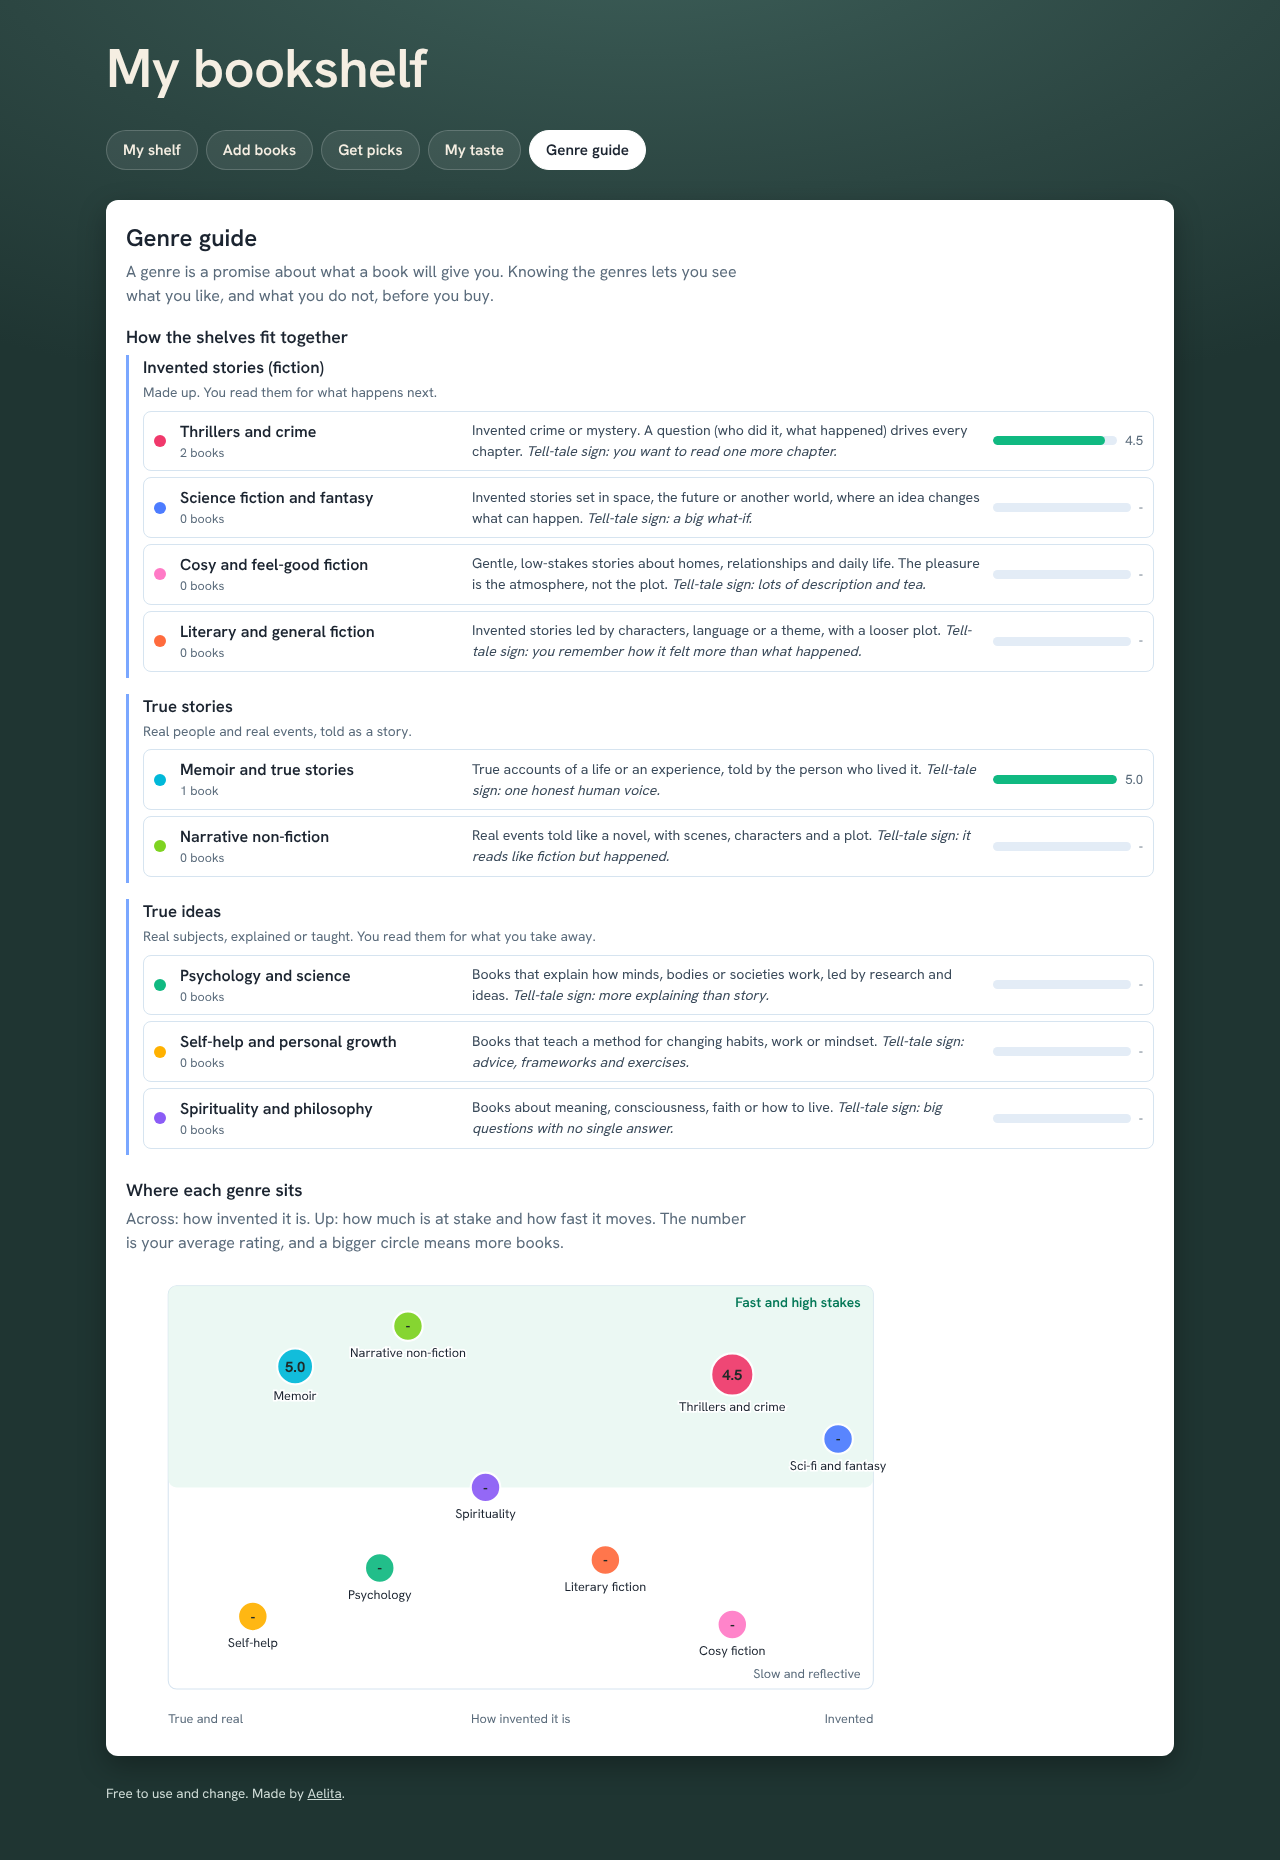
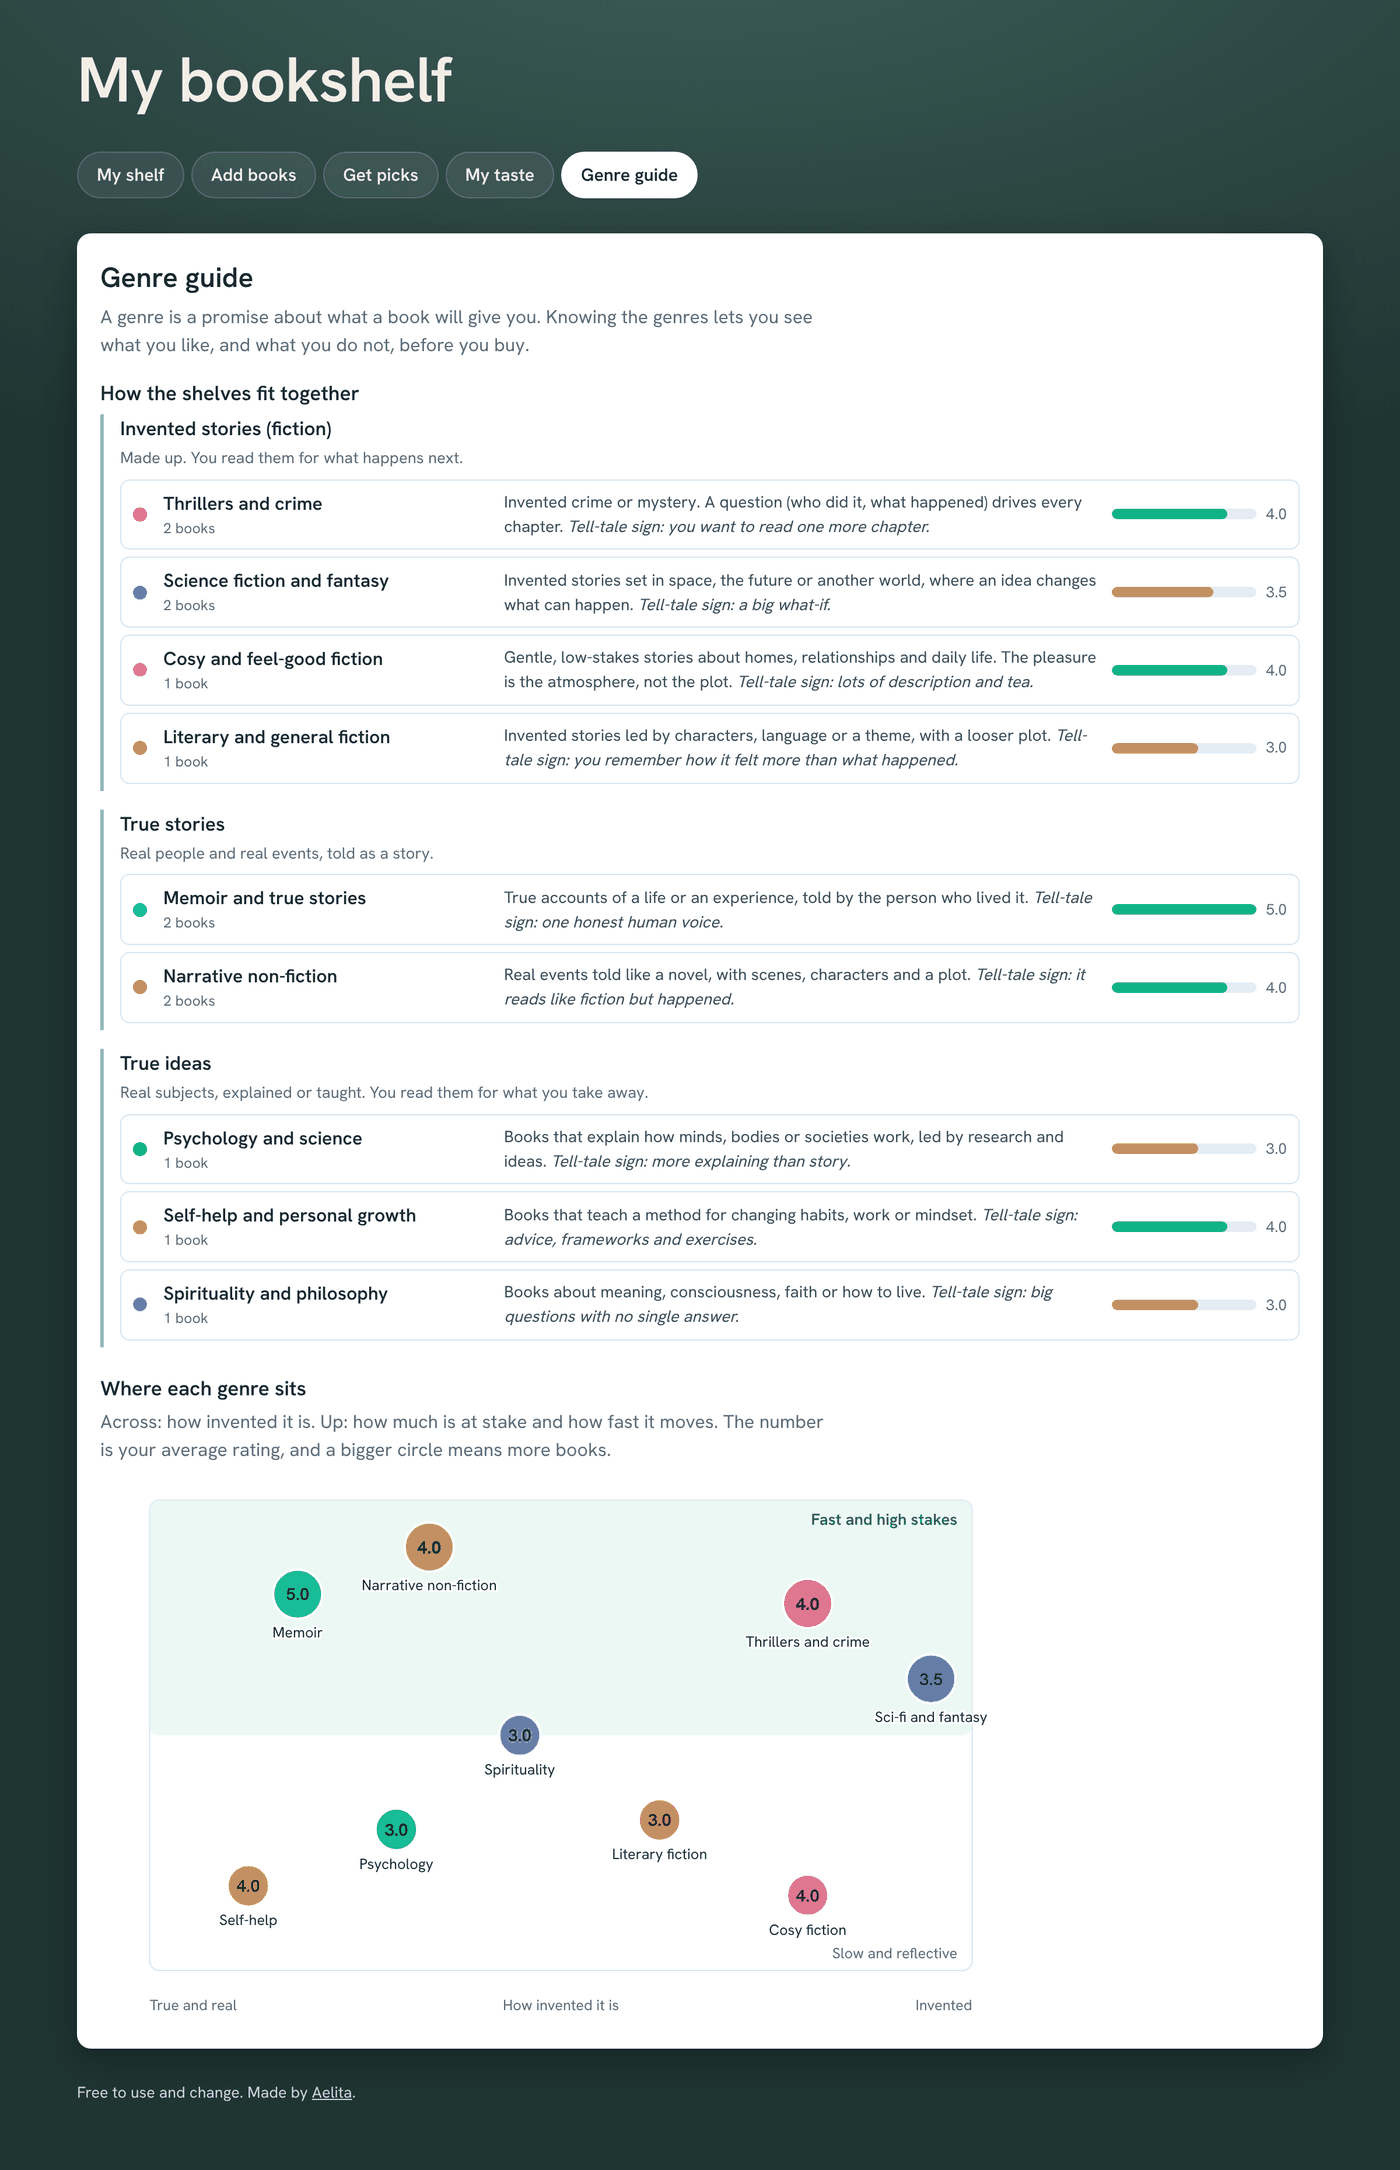
Rewrite README with step-by-step guide and add screenshots
Claude-Session: https://claude.ai/code/session_01LPQxr687qdTK5SvNS3U6bD

diff --git a/README.md b/README.md
@@ -2,61 +2,128 @@
 
 A free bookshelf that learns what you like to read, then writes the prompt for your own chatbot to recommend what to read next.
 
-No sign-up, no server, no cost. Your books stay in your browser. The recommendations come from the chatbot you already use (Claude, ChatGPT or Gemini, free plans work).
+**[Open the live bookshelf](https://lifeofaelita.github.io/bookshelf/)**. There is nothing to install, no account to make and nothing to pay for.
 
 ![Your shelf](docs/shelf.png)
 
-## What it does
+## What it does, and what it does not
 
-- **My shelf**: your books on a wooden shelf, sorted by genre
-- **Add books**: type them in, or import your Goodreads export
-- **Get picks**: builds a ready-to-paste prompt from your ratings, for any chatbot
-- **My taste**: shows what earns a five from you and what makes you stop
-- **Genre guide**: explains how genres fit together and where you sit
+Most book apps ask for a star rating and stop there. This one asks two questions about every book: how much the ideas mattered to you, and how easy it was to keep reading. That second score is what explains why you gave up on a book you were sure you would love.
 
-![Your taste](docs/taste.png)
+- It shows your books on a wooden shelf, sorted by genre.
+- It works out what earns a five from you and what makes you stop.
+- It writes a ready-made prompt from your shelf. You paste that prompt into Claude, ChatGPT or Gemini and the chatbot suggests what to read next.
+- It does not run any AI itself, send emails or collect your data. That is why it costs nothing.
 
-## Try it
+## Start in five minutes
 
-Open the live page: **https://lifeofaelita.github.io/bookshelf/**
+1. **Open the page.** Go to the live link above. You will see 13 sample books so you can look around first.
+2. **Add your own books.** Open the **Add books** tab and pick whichever option suits you (see below). When your own books are in, press **Clear the sample books** on the shelf.
+3. **Rate a few.** Click a book to open it, then set your rating and the two scores. Ten rated books is enough for good picks. Three is the minimum.
+4. **Get your prompt.** Open **Get picks**, choose how many picks you want and press **Build my prompt**, then **Copy the prompt**.
+5. **Paste it into a chatbot.** Use the Claude, ChatGPT or Gemini links under the prompt. Free plans work.
 
-Or download this repo and open `index.html` in any browser. Nothing to install.
+## Three ways to add books
 
-## Make it yours in five steps
+![The Add books tab](docs/add-books.png)
 
-1. **Add your books.** On Add books, upload your Goodreads file (Goodreads: My Books, Import and export, Export library) or add books one at a time.
-2. **Open each book you care about** and set your rating, how much the ideas mattered and how easy it was to keep reading. Ten rated books is enough to start.
-3. **Open Get picks**, choose how many picks you want, and press the button.
-4. **Press Copy** and paste into Claude, ChatGPT or Gemini.
-5. **Tell the chatbot what you thought** and ask for another round. Add the new books back into the page when you finish them.
+| Option | Best for | How |
+| --- | --- | --- |
+| Import from Goodreads | Anyone with a long reading history | On Goodreads open **My Books**, then **Import and export**, then **Export Library**. Download the file, then choose it under **Import from Goodreads** on the Add books tab. Books you already have are skipped. |
+| Add one book | A short list, or books you read recently | Fill in the form on the Add books tab. Only the title is required. |
+| Import from another app | StoryGraph users | Export your library as a CSV file and import it the same way. The common column names are recognised, but not every export has been tested. |
 
-## Weekly picks
+Imported books land on the right shelf when the genre is clear, and on **Not sorted yet** when it is not. Open a book to move it. The file [prompts/04-sort-my-books.md](prompts/04-sort-my-books.md) shows how to ask a chatbot to sort a long list for you.
 
-The page does not send emails, because there is no server. Two free options:
+## How the two scores work
 
-- Paste the prompt into a chat and ask for new picks every Monday. If your chatbot plan offers scheduled tasks, you can set that up there, but features differ by plan.
-- Put a repeating reminder in your calendar: "Monday: get book picks". It takes two minutes.
+Open any book and you will see three controls.
 
-## Your data
+![Open a book to rate it](docs/book-drawer.png)
 
-Everything is saved in your browser on your device. Clearing browser data erases it, so use **Back up my shelf** now and then. You can restore the file on any device.
+| Control | What it measures | Example |
+| --- | --- | --- |
+| Rating | How much you enjoyed it overall, 1 to 5 | 3 stars |
+| Ideas | How much the subject and ideas mattered to you, 1 to 5 | 5 |
+| Reading | How easy it was to keep reading, judged by pace, structure and voice, 1 to 5 | 2 |
 
-## Prompts
+That example is a book you found brilliant and a slog. It tells the chatbot that the topic suits you and the style does not, so it should suggest a lighter, story-led book on the same subject instead of another heavy one.
 
-The `prompts/` folder holds plain versions you can use without the page: build a taste profile, weekly picks, check a single book, and sort books into shelves.
+A few more rules the prompt passes on to the chatbot:
 
-## Host your own copy for free
+- A book you did not finish is a clue about style, even when you do not say why.
+- A book you read because you felt you should counts for less than one you chose with enthusiasm. Mark this under **Why you picked it up**.
+- Recent reads count more than old ones. Fill in **When you read it** to help.
 
-1. Fork or download this repo.
-2. In GitHub, open Settings, Pages, choose the `main` branch and the root folder, and save.
-3. Your page appears at `https://YOUR-NAME.github.io/bookshelf/` after a minute.
+The shelf also has a key, **How to read your shelf**, that explains the number badges, the red ribbon (a five), the dark DNF badge and the TBR badge.
 
-## Testing
+![How to read your shelf](docs/key.png)
 
-See [TESTING.md](TESTING.md).
+![What your shelf says about you](docs/taste.png)
+
+## Getting your recommendations
+
+![The Get picks tab with a ready prompt](docs/get-picks.png)
+
+**What should I read next?** (the Get picks tab)
+
+- Choose 3, 5 or 8 picks.
+- Choose a format: any, ebook or paperback, or audiobook.
+- Add anything to avoid or include, for example "nothing set in wartime".
+- Tick the weekly box if you want a repeating prompt (see below).
+
+**Will I like this book?** (also on the Get picks tab)
+
+Type a title that someone recommended. The prompt asks the chatbot to compare it with your shelf and score the ideas fit and ease of reading out of 100. If the chatbot does not recognise the book, it should say so and mark its confidence as low.
+
+Always glance at the picks before you buy. Chatbots occasionally invent books, and the prompt tells them to leave out any title they are unsure exists.
+
+## Picks every week
+
+The page cannot email you, because it has no server. You have three options, all free:
+
+| Option | How |
+| --- | --- |
+| Ask the chatbot to repeat it | Tick the weekly box, paste the prompt into a new chat and ask for fresh picks every Monday. |
+| Use the chatbot's own scheduling | ChatGPT has a Tasks feature and Claude has scheduled tasks on some plans. Plans change, so check what yours offers. |
+| Set a calendar reminder | A repeating Monday reminder that says "get book picks". Update your shelf first so the prompt includes last week's reading. |
+
+## Your data and privacy
+
+- Everything is saved in your browser on your device. Nothing is uploaded to a server.
+- It is saved per browser and per device. A different computer, or a private window, starts empty.
+- Clearing your browser data erases the shelf. Press **Download a backup** now and then. To move to a new device, open the page there and press **Restore from a backup**.
+- **Start again** erases everything and asks you to tap twice so it cannot happen by accident.
+- Book covers load from Open Library when an imported book has an ISBN. Books without one get a coloured cover with the title.
+
+## If something goes wrong
+
+| Problem | Fix |
+| --- | --- |
+| The shelf is empty after I came back | You are in a different browser, a private window or on another device. Restore your backup file. |
+| The import added no books | Make sure you chose the exported CSV file and that it has a Title column. |
+| Most books are on Not sorted yet | Open a book to choose its shelf, or ask a chatbot to sort the list with prompts/04-sort-my-books.md. |
+| The Build my prompt button asks for more ratings | Rate at least three books first. |
+| The Copy button does not work | Click inside the prompt box and press Ctrl+C or Cmd+C. |
+
+## Use it without the page
+
+The **prompts** folder holds plain-text versions you can paste straight into a chatbot: build a taste profile, weekly picks, check a single book, and sort books into shelves.
+
+## Run your own copy
+
+1. Press **Fork** at the top of this repository, or download it with **Code, Download ZIP**.
+2. To open it on your computer, unzip it and double-click **index.html**.
+3. To host it free on GitHub Pages: in your fork open **Settings**, then **Pages**, choose the **main** branch and the **/ (root)** folder, and press Save. Your page appears at your-name.github.io/bookshelf after a minute or two.
+
+The code is one HTML file plus the **fonts** and **wood** folders. There is nothing to build.
+
+![Genre guide](docs/genre-guide.png)
+
+## Checking it works
+
+[TESTING.md](TESTING.md) is a 15-minute checklist covering the page, a phone and a chatbot. [examples/sample-goodreads-export.csv](examples/sample-goodreads-export.csv) is a small file you can use to try the import.
 
 ## Credits
 
-Built by [Aelita](https://github.com/lifeofaelita) with Claude. Sample books are examples only, and the ratings on them are made up. Book covers come from Open Library when your import includes an ISBN.
-
-Licence: MIT.
+Built by [Aelita](https://github.com/lifeofaelita) with Claude. The sample books are examples only and their ratings are made up. Licence: MIT, so you are free to use and change it.
